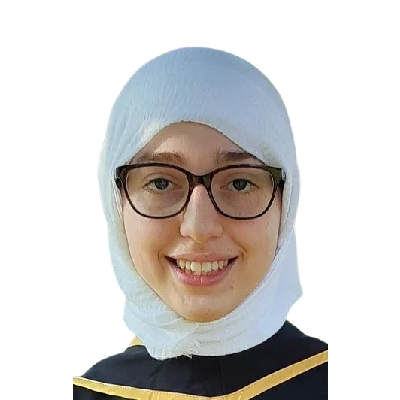
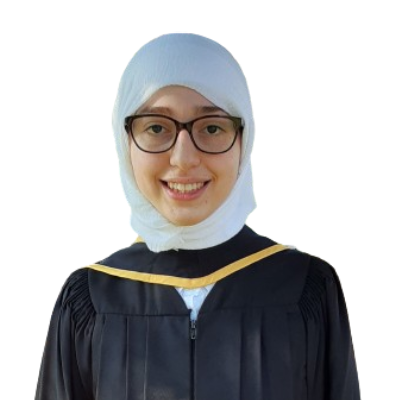
add pm signup pin

diff --git a/app/pm-signup/page.tsx b/app/pm-signup/page.tsx
@@ -8,6 +8,7 @@ import Image from "next/image";
 import { useState } from "react";
 import { createClient } from "@/utils/supabase/client";
 import { useRouter } from "next/navigation";
+import { checkPin } from "./actions";
 
 export default function LoginPage({ searchParams }: any) {
   const [error, setError] = useState(false);
@@ -15,8 +16,22 @@ export default function LoginPage({ searchParams }: any) {
   const [password, setPassword] = useState("");
   const [passwordCheck, setPasswordCheck] = useState("");
   const [loading, setLoading] = useState(false);
+  const [authorized, setAuthorized] = useState(false);
+  const [pin, setPin] = useState("");
+
   const supabase = createClient();
   const router = useRouter();
+
+  const handleAuthorization = async () => {
+    const check = await checkPin(pin);
+    if (!check) {
+      setError(true);
+    } else if (check) {
+      setAuthorized(true);
+      setError(false);
+    }
+  }
+
   const handleSignup = async () => {
     setLoading(true);
 
@@ -56,72 +71,110 @@ export default function LoginPage({ searchParams }: any) {
             <CardTitle className="text-4xl">Project Manager Sign Up.</CardTitle>
           </div>
         </CardHeader>
-        <CardContent>
-          <div className="flex flex-col max-w-[500px] w-[80vw] items-center gap-[15px]">
-            <div className="w-full">
-              <Label htmlFor="email">Email:</Label>
-              <Input
-                id="email"
-                name="email"
-                type="email"
-                placeholder="Email Address"
-                defaultValue={email}
-                onChange={(e) => {
-                  setError(false);
-                  setEmail(e.target.value);
-                }}
-                required
-                className="w-[100%] min-h-[58px] text-lg"
-              />
+        { authorized ?
+          <CardContent>
+            <div className="flex flex-col max-w-[500px] w-[80vw] items-center gap-[15px]">
+              <div className="w-full">
+                <Label htmlFor="email">Email:</Label>
+                <Input
+                  id="email"
+                  name="email"
+                  type="email"
+                  placeholder="Email Address"
+                  defaultValue={email}
+                  onChange={(e) => {
+                    setError(false);
+                    setEmail(e.target.value);
+                  }}
+                  required
+                  className="w-[100%] min-h-[58px] text-lg"
+                />
+              </div>
+              <div className="w-[100%]">
+                <label htmlFor="password">Password:</label>
+                <Input
+                  id="password"
+                  name="password"
+                  type="password"
+                  placeholder="Password"
+                  value={password}
+                  onChange={(e) => {
+                    setError(false);
+                    setPassword(e.target.value);
+                  }}
+                  required
+                  className="w-[100%] min-h-[58px] text-lg"
+                />
+              </div>
+              <div className="w-[100%]">
+                <label htmlFor="confirm_password">Confirm Password:</label>
+                <Input
+                  id="confirm_password"
+                  name="confirm_password"
+                  type="password"
+                  placeholder="Confirm Password"
+                  required
+                  className="w-[100%] min-h-[58px] text-lg"
+                  onChange={(e) => {
+                    setError(false);
+                    setPasswordCheck(e.target.value);
+                  }}
+                  value={passwordCheck}
+                />
+              </div>
+              {error && (
+                <p className="text-destructive">
+                  Error Registering Account.
+                  <br />
+                  Make sure passwor is atleast 6 characters long
+                </p>
+              )}
+              <Button
+                disabled={loading}
+                onClick={() => handleSignup()}
+                className="mt-[15px] w-[100%] text-lg py-[25px]"
+              >
+                Sign Up
+              </Button>
             </div>
-            <div className="w-[100%]">
-              <label htmlFor="password">Password:</label>
-              <Input
-                id="password"
-                name="password"
-                type="password"
-                placeholder="Password"
-                value={password}
-                onChange={(e) => {
-                  setError(false);
-                  setPassword(e.target.value);
-                }}
-                required
-                className="w-[100%] min-h-[58px] text-lg"
-              />
+          </CardContent>
+          :
+          <CardContent>
+            <div className="flex flex-col max-w-[500px] w-[80vw] items-center gap-[15px]">
+            <>YOU ARE NOT AUTHORIZED!</>
+              <div className="w-full">
+                <Input
+                  id="email"
+                  name="email"
+                  type="email"
+                  placeholder="Enter PM Pin"
+                  defaultValue={pin}
+                  onChange={(e) => {
+                    setError(false);
+                    setPin(e.target.value);
+                  }}
+                  required
+                  className="w-[100%] min-h-[58px] text-lg"
+                />
+              </div>
+              
+              
+              {error && (
+                <p className="text-destructive">
+                  wrong pin! are you sure you are a PM?
+                </p>
+              )}
+              <Button
+                disabled={loading}
+                onClick={() => handleAuthorization()}
+                className="mt-[15px] w-[100%] text-lg py-[25px]"
+              >
+                Gain Access
+              </Button>
             </div>
-            <div className="w-[100%]">
-              <label htmlFor="confirm_password">Confirm Password:</label>
-              <Input
-                id="confirm_password"
-                name="confirm_password"
-                type="password"
-                placeholder="Confirm Password"
-                required
-                className="w-[100%] min-h-[58px] text-lg"
-                onChange={(e) => {
-                  setError(false);
-                  setPasswordCheck(e.target.value);
-                }}
-                value={passwordCheck}
-              />
-            </div>
-            {error && (
-              <p className="text-destructive">
-                Error Registering Account.
-                <br />
-                Make sure passwor is atleast 6 characters long
-              </p>
-            )}
-            <Button
-              disabled={loading}
-              onClick={() => handleSignup()}
-              className="mt-[15px] w-[100%] text-lg py-[25px]"
-            >
-              Sign Up
-            </Button>
-          </div>
-        </CardContent>
+          </CardContent>
+        }
+        
       </Card>
     </Container>
   );

diff --git a/app/pm-signup/actions.ts b/app/pm-signup/actions.ts
@@ -1,4 +1,13 @@
-// "use server";
+"use server";
+
+
+export async function checkPin(pin: String) {
+    if (pin == "76463") {
+        return true;
+    } else {
+        return false;
+    }
+}
 
 // import { revalidatePath } from "next/cache";
 // import { redirect } from "next/navigation";
